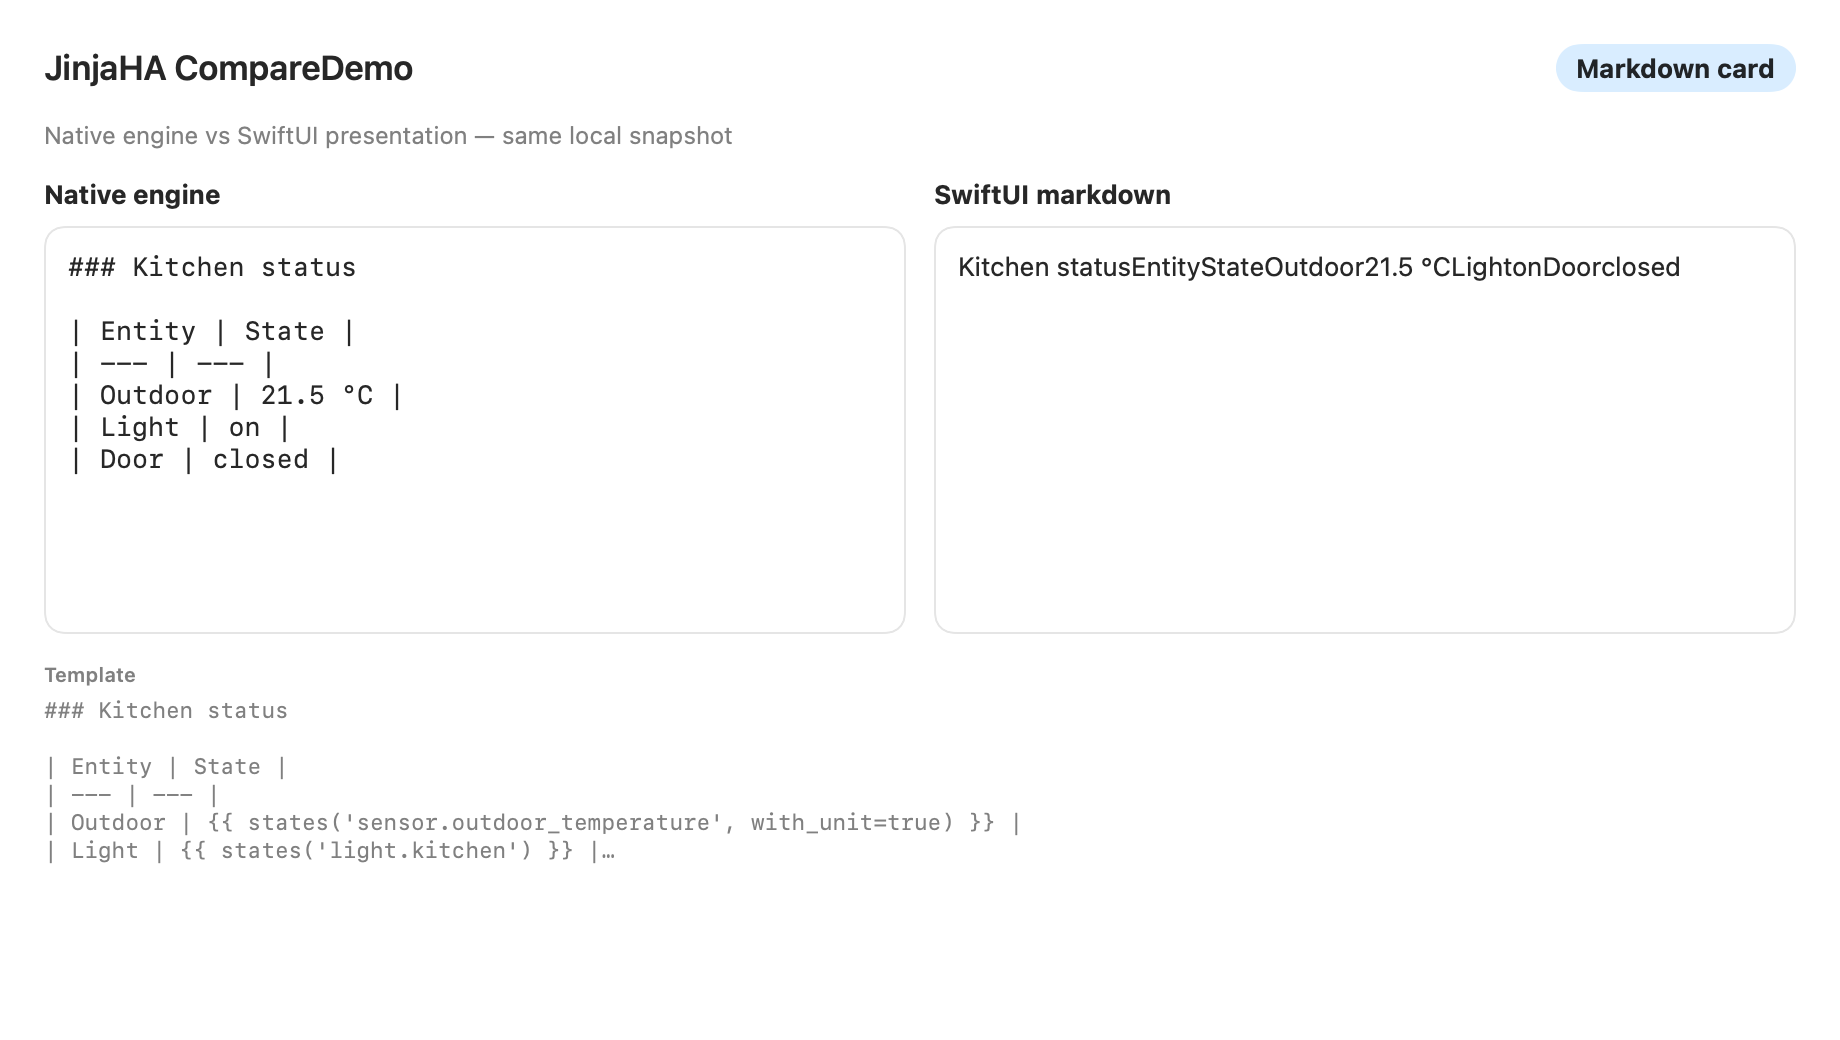
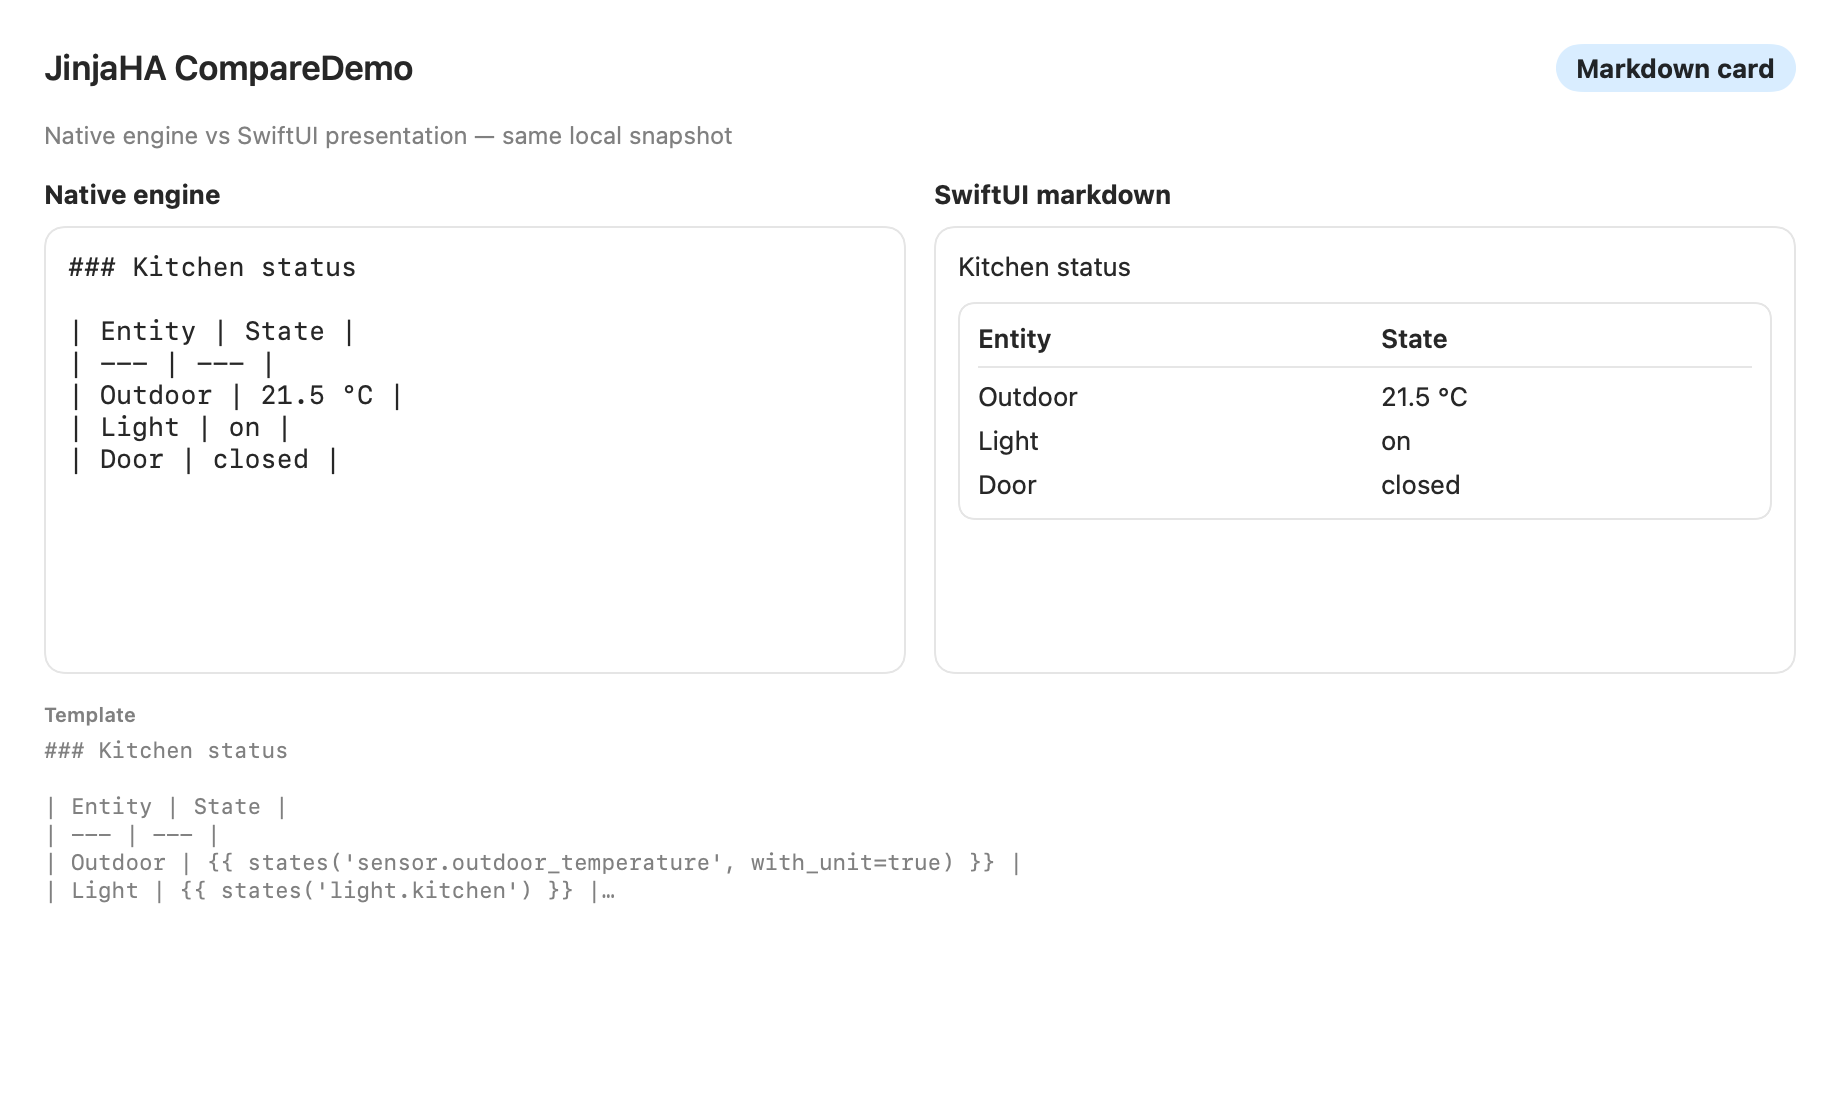
Fix GFM markdown table rendering in HATemplateMarkdown.
Foundation AttributedString collapses pipe tables; parse blocks and render tables with SwiftUI Grid, and regenerate CompareDemo screenshots.

diff --git a/Sources/JinjaHASwiftUI/MarkdownDocumentView.swift b/Sources/JinjaHASwiftUI/MarkdownDocumentView.swift
@@ -1,0 +1,174 @@
+import Foundation
+import SwiftUI
+
+/// Lightweight markdown presenter with GFM table support.
+///
+/// Apple's `AttributedString(markdown:)` (CommonMark) does **not** support pipe
+/// tables and collapses them into a single run. This view splits the document into
+/// blocks and renders tables with SwiftUI `Grid`.
+public struct MarkdownDocumentView: View {
+    public let source: String
+
+    public init(source: String) {
+        self.source = source
+    }
+
+    public var body: some View {
+        VStack(alignment: .leading, spacing: 10) {
+            ForEach(Array(MarkdownBlockParser.parse(source).enumerated()), id: \.offset) { _, block in
+                switch block {
+                case let .markdown(text):
+                    Text(attributed(text))
+                case let .table(table):
+                    markdownTable(table)
+                }
+            }
+        }
+        .frame(maxWidth: .infinity, alignment: .leading)
+    }
+
+    private func attributed(_ text: String) -> AttributedString {
+        if let parsed = try? AttributedString(
+            markdown: text,
+            options: .init(interpretedSyntax: .full)
+        ) {
+            return parsed
+        }
+        if let parsed = try? AttributedString(
+            markdown: text,
+            options: .init(interpretedSyntax: .inlineOnlyPreservingWhitespace)
+        ) {
+            return parsed
+        }
+        return AttributedString(text)
+    }
+
+    @ViewBuilder
+    private func markdownTable(_ table: MarkdownTable) -> some View {
+        Grid(alignment: .leading, horizontalSpacing: 16, verticalSpacing: 6) {
+            ForEach(Array(table.rows.enumerated()), id: \.offset) { rowIndex, row in
+                GridRow {
+                    ForEach(Array(row.enumerated()), id: \.offset) { _, cell in
+                        Text(attributedInline(cell))
+                            .fontWeight(rowIndex == 0 ? .semibold : .regular)
+                            .frame(maxWidth: .infinity, alignment: .leading)
+                    }
+                }
+                if rowIndex == 0 {
+                    Divider()
+                        .gridCellColumns(max(table.columnCount, 1))
+                }
+            }
+        }
+        .padding(10)
+        .background(
+            RoundedRectangle(cornerRadius: 8)
+                .strokeBorder(Color.primary.opacity(0.12), lineWidth: 1)
+        )
+    }
+
+    private func attributedInline(_ text: String) -> AttributedString {
+        if let parsed = try? AttributedString(
+            markdown: text,
+            options: .init(interpretedSyntax: .inlineOnlyPreservingWhitespace)
+        ) {
+            return parsed
+        }
+        return AttributedString(text)
+    }
+}
+
+enum MarkdownBlock: Equatable {
+    case markdown(String)
+    case table(MarkdownTable)
+}
+
+struct MarkdownTable: Equatable {
+    var rows: [[String]]
+
+    var columnCount: Int {
+        rows.map(\.count).max() ?? 0
+    }
+}
+
+enum MarkdownBlockParser {
+    static func parse(_ source: String) -> [MarkdownBlock] {
+        let lines = source.split(separator: "\n", omittingEmptySubsequences: false).map(String.init)
+        var blocks: [MarkdownBlock] = []
+        var markdownBuffer: [String] = []
+        var index = 0
+
+        func flushMarkdown() {
+            let text = markdownBuffer.joined(separator: "\n").trimmingCharacters(in: .newlines)
+            markdownBuffer.removeAll(keepingCapacity: true)
+            guard !text.isEmpty else { return }
+            blocks.append(.markdown(text))
+        }
+
+        while index < lines.count {
+            if isTableRow(lines[index]) {
+                var tableLines: [String] = []
+                while index < lines.count, isTableRow(lines[index]) {
+                    tableLines.append(lines[index])
+                    index += 1
+                }
+                if let table = parseTable(tableLines) {
+                    flushMarkdown()
+                    blocks.append(.table(table))
+                } else {
+                    markdownBuffer.append(contentsOf: tableLines)
+                }
+                continue
+            }
+            markdownBuffer.append(lines[index])
+            index += 1
+        }
+        flushMarkdown()
+        return blocks
+    }
+
+    private static func isTableRow(_ line: String) -> Bool {
+        let trimmed = line.trimmingCharacters(in: .whitespaces)
+        guard trimmed.contains("|") else { return false }
+        // Allow leading/trailing pipes; reject obvious non-rows.
+        return trimmed.contains(where: { !$0.isWhitespace && $0 != "|" && $0 != "-" && $0 != ":" })
+            || isSeparatorRow(trimmed)
+    }
+
+    private static func isSeparatorRow(_ trimmed: String) -> Bool {
+        let cells = splitCells(trimmed)
+        guard !cells.isEmpty else { return false }
+        return cells.allSatisfy { cell in
+            let compact = cell.replacingOccurrences(of: " ", with: "")
+            return !compact.isEmpty && compact.allSatisfy { $0 == "-" || $0 == ":" }
+        }
+    }
+
+    private static func parseTable(_ lines: [String]) -> MarkdownTable? {
+        guard lines.count >= 2 else { return nil }
+        let rows = lines.map(splitCells)
+        // Drop GFM separator row(s).
+        let dataRows = rows.filter { row in
+            !row.allSatisfy { cell in
+                let compact = cell.replacingOccurrences(of: " ", with: "")
+                return !compact.isEmpty && compact.allSatisfy { $0 == "-" || $0 == ":" }
+            }
+        }
+        guard dataRows.count >= 1 else { return nil }
+        let width = dataRows.map(\.count).max() ?? 0
+        let normalized = dataRows.map { row -> [String] in
+            if row.count == width { return row }
+            if row.count > width { return Array(row.prefix(width)) }
+            return row + Array(repeating: "", count: width - row.count)
+        }
+        return MarkdownTable(rows: normalized)
+    }
+
+    private static func splitCells(_ line: String) -> [String] {
+        var trimmed = line.trimmingCharacters(in: .whitespaces)
+        if trimmed.hasPrefix("|") { trimmed.removeFirst() }
+        if trimmed.hasSuffix("|") { trimmed.removeLast() }
+        return trimmed.split(separator: "|", omittingEmptySubsequences: false)
+            .map { $0.trimmingCharacters(in: .whitespaces) }
+    }
+}

diff --git a/Examples/CompareDemo/ScreenshotExporter.swift b/Examples/CompareDemo/ScreenshotExporter.swift
@@ -1,5 +1,6 @@
 import AppKit
 import Foundation
+import JinjaHASwiftUI
 import SwiftUI
 
 /// Renders static side-by-side panes (pre-evaluated) so exports don't race async SwiftUI tasks.
@@ -17,7 +18,7 @@ enum ScreenshotExporter {
                 swiftUIOutput: output,
                 markdown: scenario.usesMarkdown
             )
-            .frame(width: 920, height: 520)
+            .frame(width: 920, height: 560)
 
             let data = try renderPNG(view: view, scale: 2)
             let fileURL = directory.appendingPathComponent(scenario.screenshotFilename)
@@ -79,11 +80,11 @@ private struct ScreenshotCard: View {
                 .foregroundStyle(.secondary)
 
             HStack(alignment: .top, spacing: 14) {
-                column(title: "Native engine", body: nativeOutput, mono: true)
+                column(title: "Native engine", body: nativeOutput, asMarkdown: false)
                 column(
                     title: markdown ? "SwiftUI markdown" : "SwiftUI text",
                     body: swiftUIOutput,
-                    mono: !markdown
+                    asMarkdown: markdown
                 )
             }
 
@@ -102,23 +103,19 @@ private struct ScreenshotCard: View {
         .background(Color(nsColor: .windowBackgroundColor))
     }
 
-    private func column(title: String, body: String, mono: Bool) -> some View {
+    private func column(title: String, body: String, asMarkdown: Bool) -> some View {
         VStack(alignment: .leading, spacing: 8) {
             Text(title)
                 .font(.headline)
             Group {
-                if markdown, title.contains("markdown"),
-                   let attributed = try? AttributedString(
-                    markdown: body,
-                    options: .init(interpretedSyntax: .full)
-                   ) {
-                    Text(attributed)
+                if asMarkdown {
+                    MarkdownDocumentView(source: body)
                 } else {
                     Text(body)
-                        .font(mono ? .body.monospaced() : .body)
+                        .font(.body.monospaced())
                 }
             }
-            .frame(maxWidth: .infinity, minHeight: 180, alignment: .topLeading)
+            .frame(maxWidth: .infinity, minHeight: 200, alignment: .topLeading)
             .padding(12)
             .background(RoundedRectangle(cornerRadius: 10).fill(Color(nsColor: .controlBackgroundColor)))
             .overlay(

diff --git a/Tests/JinjaHASwiftUITests/MarkdownBlockParserTests.swift b/Tests/JinjaHASwiftUITests/MarkdownBlockParserTests.swift
@@ -1,0 +1,46 @@
+import XCTest
+@testable import JinjaHASwiftUI
+
+final class MarkdownBlockParserTests: XCTestCase {
+    func testParsesHeadingAndGFMTable() {
+        let source = """
+        ### Kitchen status
+
+        | Entity | State |
+        | --- | --- |
+        | Outdoor | 21.5 °C |
+        | Light | on |
+        | Door | closed |
+        """
+        let blocks = MarkdownBlockParser.parse(source)
+        XCTAssertEqual(blocks.count, 2)
+        guard case let .markdown(heading) = blocks[0] else {
+            return XCTFail("Expected markdown heading block")
+        }
+        XCTAssertTrue(heading.contains("Kitchen status"))
+        guard case let .table(table) = blocks[1] else {
+            return XCTFail("Expected table block")
+        }
+        XCTAssertEqual(table.rows.count, 4) // header + 3 data (separator dropped)
+        XCTAssertEqual(table.rows[0], ["Entity", "State"])
+        XCTAssertEqual(table.rows[1], ["Outdoor", "21.5 °C"])
+        XCTAssertEqual(table.rows[3], ["Door", "closed"])
+    }
+
+    func testAttributedStringFullCollapsesTables_documentedLimitation() {
+        // Guardrail: Foundation markdown must not be used alone for GFM tables.
+        let md = """
+        ### Kitchen status
+
+        | Entity | State |
+        | --- | --- |
+        | Outdoor | 21.5 °C |
+        """
+        let collapsed = (try? AttributedString(
+            markdown: md,
+            options: .init(interpretedSyntax: .full)
+        )).map { String($0.characters) } ?? ""
+        XCTAssertFalse(collapsed.contains("|"), "Foundation markdown strips table pipes")
+        XCTAssertTrue(collapsed.contains("EntityState") || !collapsed.contains("\n"))
+    }
+}

diff --git a/Sources/JinjaHASwiftUI/HATemplateMarkdown.swift b/Sources/JinjaHASwiftUI/HATemplateMarkdown.swift
@@ -1,7 +1,7 @@
 import SwiftUI
 import JinjaHA
 
-/// Renders a Jinja template to markdown (`AttributedString`), including tables.
+/// Renders a Jinja template to markdown, including GFM pipe tables.
 public struct HATemplateMarkdown: View {
     private let template: String
     private let refreshToken: String
@@ -27,7 +27,7 @@ public struct HATemplateMarkdown: View {
 
     public var body: some View {
         VStack(alignment: .leading, spacing: 4) {
-            Text(markdownAttributed)
+            MarkdownDocumentView(source: model.displayText)
             if let errorMessage = model.errorMessage {
                 Text(errorMessage)
                     .font(.caption)
@@ -39,22 +39,5 @@ public struct HATemplateMarkdown: View {
             model.refreshToken = refreshToken
             await model.renderIfNeeded()
         }
-    }
-
-    private var markdownAttributed: AttributedString {
-        let text = model.displayText
-        if let parsed = try? AttributedString(
-            markdown: text,
-            options: .init(interpretedSyntax: .full)
-        ) {
-            return parsed
-        }
-        if let parsed = try? AttributedString(
-            markdown: text,
-            options: .init(interpretedSyntax: .inlineOnlyPreservingWhitespace)
-        ) {
-            return parsed
-        }
-        return AttributedString(text)
     }
 }
